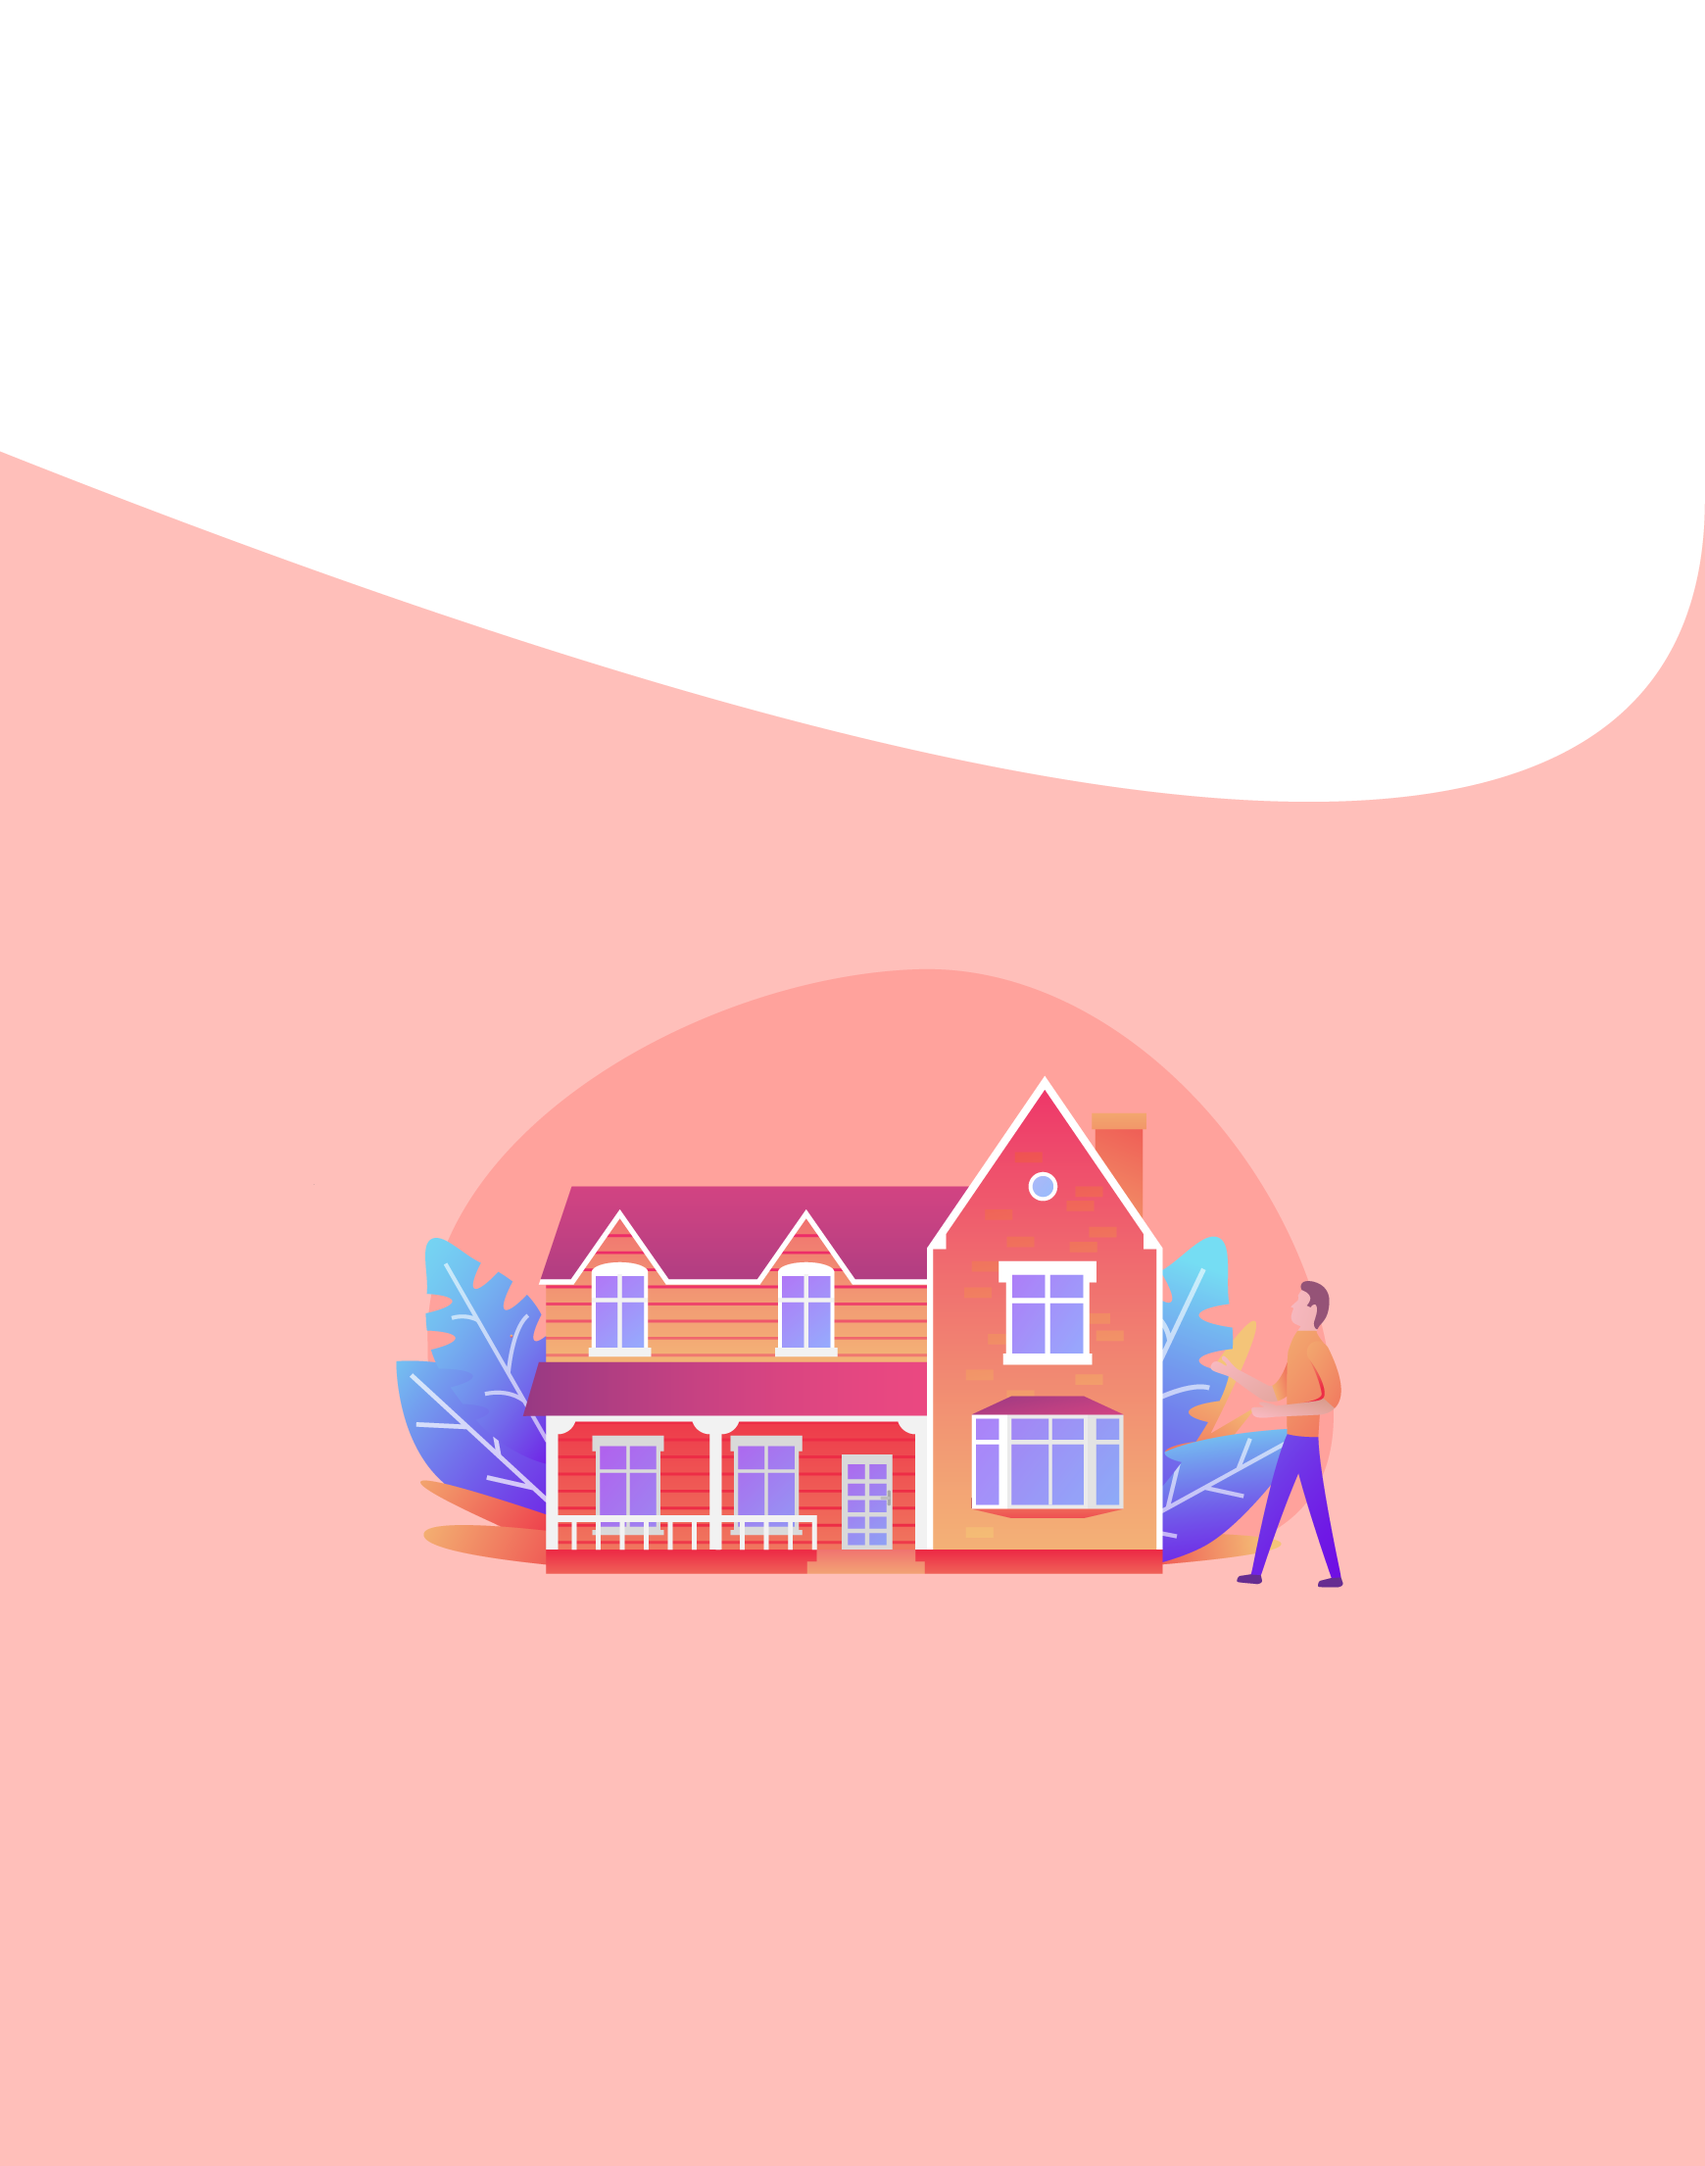
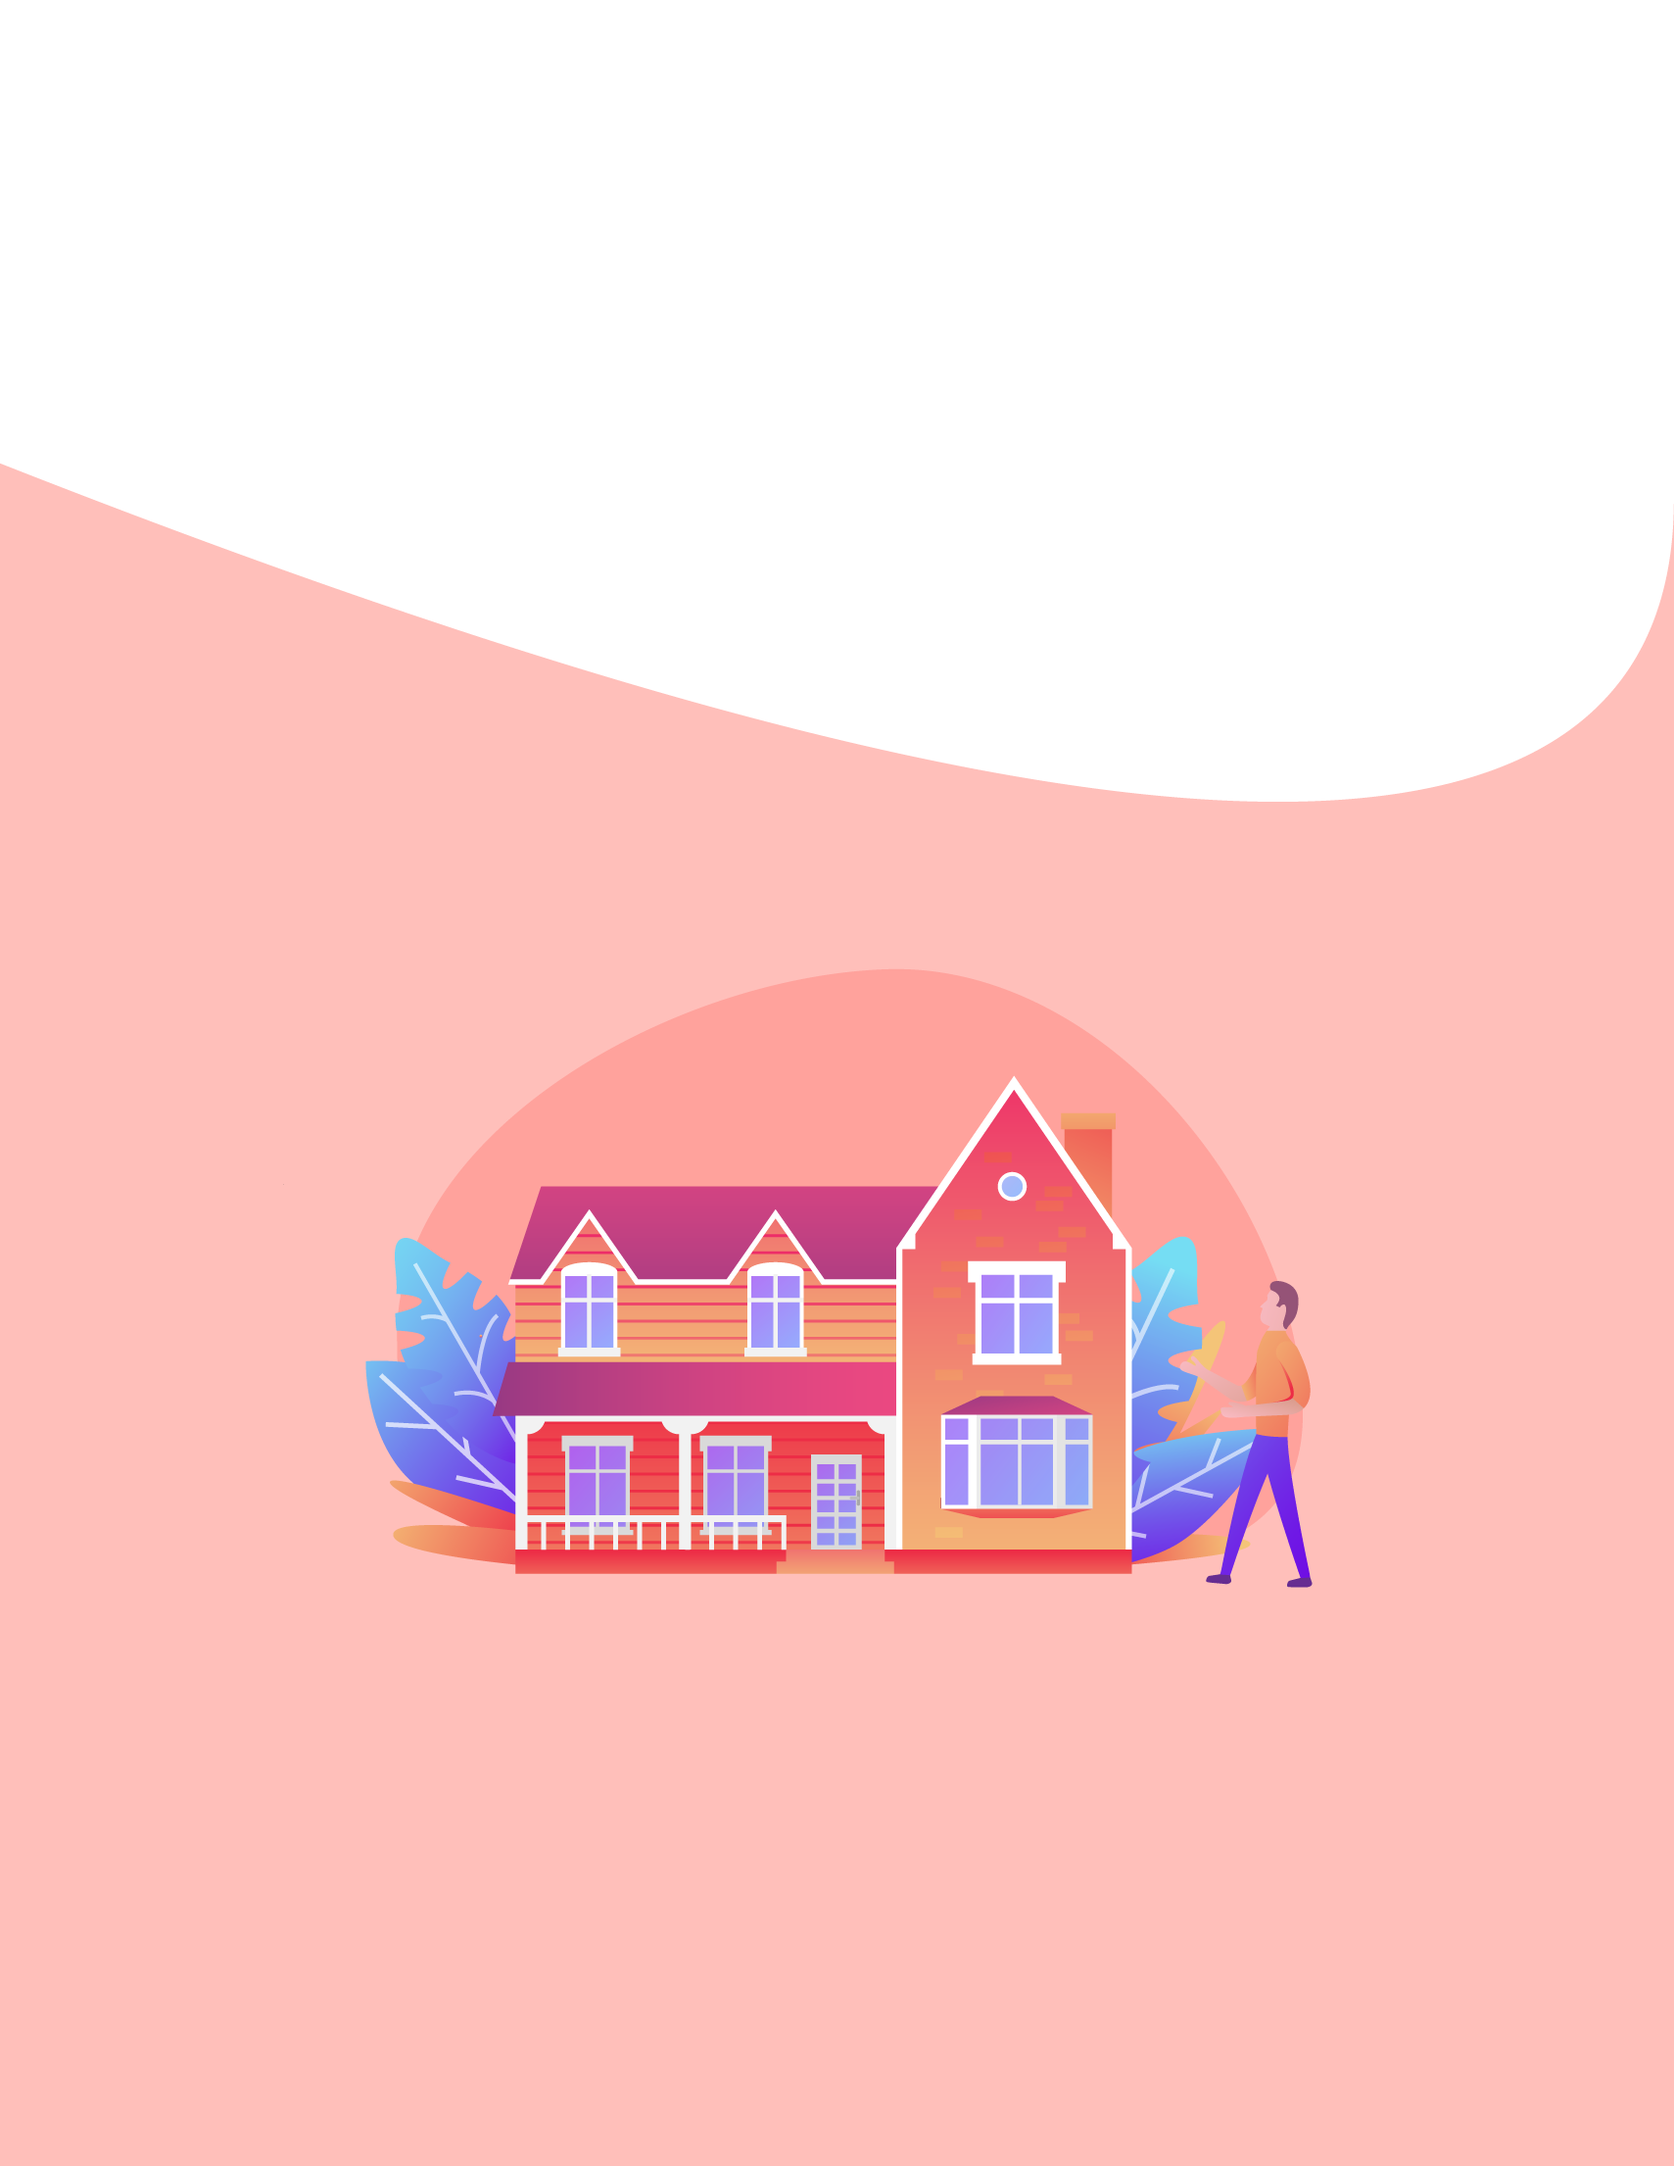
intro section

diff --git a/front-end/src/assets/css/general.css b/front-end/src/assets/css/general.css
@@ -636,16 +636,23 @@ body {
 }
 
 @media (max-width: 479px) {
+  .intro-section {
+		height: 300px;
+    /* padding-top: 40px;
+    padding-right: 20px;
+    padding-left: 20px; */
+    border: 1px solid red;
+  }
+
   /* .intro-section {
-		min-height: 60vw;
-		padding-top: 40px;
+    height: 300px;
+    border: 1px solid red;
   } */
 
   .intro-section .bg-stretch {
     /* background-image: url("../images/finaliphone678.png"); */
     background-image: url("../images/isthis.png");
     background-size: cover;
-    height: 560px;
 
 
   }
